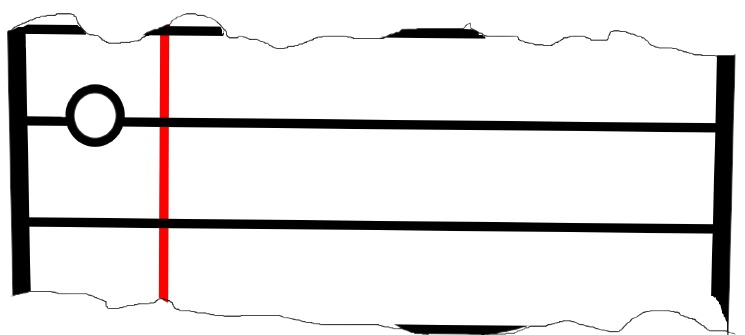
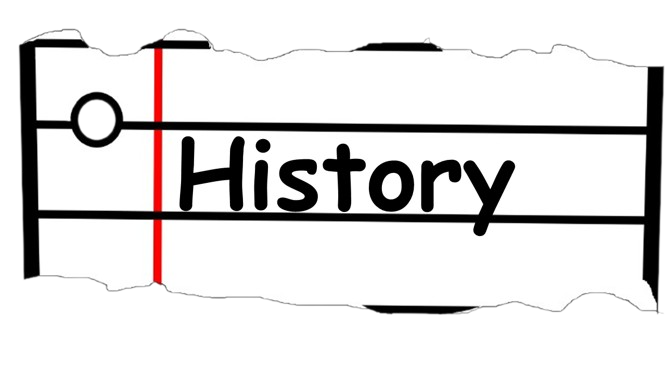
Update

diff --git a/style.css b/style.css
@@ -21,6 +21,7 @@ main {
 .crt {
     margin: 3vmin auto;
     padding: 5.5vmin;
+    padding-bottom: 10vmin;
     width: min-content;
     display: flex;
     flex-direction: column;
@@ -40,7 +41,7 @@ main {
     width: 560px;
     height: 560px;
     font-family: 'VT323';
-    color:green;
+    color: green;
     flex-direction: column;
     justify-content: space-around;
     align-items: center;
@@ -57,6 +58,11 @@ main {
     display: flex;
 }
 
+.screen.ghistory {
+    display: none;
+    color:green;
+}
+
 .screen.two button {
     font-size: 2em;
     font-weight: bolder;
@@ -70,13 +76,14 @@ button {
     cursor: pointer;
 }
 
-.screen.four img{
+.screen.four img {
     background: none;
     height: 200px;
     width: 200px;
 }
 
-.game {
+.game,
+.histories {
     display: grid;
     grid-template-columns: repeat(3, 1fr);
     grid-template-rows: repeat(3, 1fr);
@@ -89,7 +96,8 @@ button {
     max-height: 90vh;
 }
 
-.container {
+.container,
+.hcontainer {
     display: flex;
     justify-content: center;
     align-items: center;
@@ -102,38 +110,52 @@ button {
     transition: all 0.3s ease;
 }
 
-.container.one {
+.hbutton {
+    display: flex;
+    justify-content: space-around;
+    width: 100%;
+}
+
+.container.one,
+.hcontainer.one {
     border-top: none;
     border-left: none;
 }
 
-.container.two {
+.container.two,
+.hcontainer.two {
     border-top: none;
 }
 
-.container.three {
+.container.three,
+.hcontainer.three {
     border-top: none;
     border-right: none;
 }
 
-.container.four {
+.container.four,
+.hcontainer.four {
     border-left: none;
 }
 
-.container.six {
+.container.six,
+.hcontainer.six {
     border-right: none;
 }
 
-.container.seven {
+.container.seven,
+.hcontainer.seven {
     border-left: none;
     border-bottom: none;
 }
 
-.container.eight {
+.container.eight,
+.hcontainer.eight {
     border-bottom: none;
 }
 
-.container.nine {
+.container.nine,
+.hcontainer.nine {
     border-right: none;
     border-bottom: none;
 }
@@ -151,13 +173,15 @@ button {
     content: "O";
     color: green;
 }
+
 .controls {
     display: flex;
     width: 100%;
     justify-content: space-around;
     position: relative;
-    top: 15px;
+    top: 30px;
 }
+
 .controls button {
     padding: 10px 20px;
     font-size: 18px;
@@ -181,6 +205,26 @@ button {
 .controls button:hover {
     background-color: #333;
     color: #fff;
+}
+
+.crtbuttonone {
+    display: flex;
+}
+
+.crtbuttontwo {
+    display: flex;
+}
+
+#label-one {
+    position: absolute;
+    overflow-y: hidden;
+    top: -25px;
+}
+
+#label-two {
+    position: absolute;
+    overflow-y: hidden;
+    top: -25px;
 }
 
 @font-face {

diff --git a/ai.js b/ai.js
@@ -1,0 +1,73 @@
+function makeComputerMove() {
+    if (gameOver) {
+        return false;
+    }
+
+    const corners = [0, 2, 6, 8];
+    let cell = -1;
+    let myArr = [];
+
+    function getRandomCell(arr) {
+        return arr[Math.floor(Math.random() * arr.length)];
+    }
+
+    function chooseRandomCorner() {
+        return getRandomCell(corners);
+    }
+
+    function chooseRandomFreeCell() {
+        myArr = myGrid.getFreeCellIndices();
+        return getRandomCell(myArr);
+    }
+
+    if (moves >= 3) {
+        cell = myGrid.getFirstWithTwoInARow(computer) || myGrid.getFirstWithTwoInARow(player);
+
+        if (cell === false) {
+            cell = (myGrid.cells[4] === 0 && difficulty === 1) ? 4 : chooseRandomFreeCell();
+        }
+
+        // additional conditions to avoid a catch-22 situation
+        if (moves === 3 && myGrid.cells[4] === computer && player === x && difficulty === 1) {
+            const edgePairs = [
+                {playerCell: 7, enemyCells: [0, 2], availableCells: [6, 8]},
+                {playerCell: 5, enemyCells: [0, 6], availableCells: [2, 8]},
+                {playerCell: 3, enemyCells: [2, 8], availableCells: [0, 6]},
+                {playerCell: 1, enemyCells: [6, 8], availableCells: [0, 2]}
+            ];
+
+            const foundPair = edgePairs.find(pair => {
+                return myGrid.cells[pair.playerCell] === player &&
+                    pair.enemyCells.every(cell => myGrid.cells[cell] === player);
+            });
+
+            if (foundPair) {
+                cell = getRandomCell(foundPair.availableCells);
+            }
+        }
+    } else if (moves === 1 && myGrid.cells[4] === player && difficulty === 1) {
+        cell = chooseRandomCorner();
+    } else if (moves === 0 && Math.random() < 0.8) {
+        cell = chooseRandomCorner();
+    } else {
+        cell = (myGrid.cells[4] === 0 && difficulty === 1) ? 4 : chooseRandomFreeCell();
+    }
+
+    const id = `cell${cell}`;
+    document.getElementById(id).innerHTML = computerText;
+    document.getElementById(id).style.cursor = "default";
+
+    const rotation = ["rotate(180deg)", "rotate(90deg)", ""];
+    document.getElementById(id).style.transform = getRandomCell(rotation);
+
+    myGrid.cells[cell] = computer;
+    moves += 1;
+
+    if (moves >= 5) {
+        winner = checkWin();
+    }
+
+    if (winner === 0 && !gameOver) {
+        whoseTurn = player;
+    }
+}

diff --git a/index.html b/index.html
@@ -37,14 +37,37 @@
                 </button>
                 <p>Play again</p>
             </div>
+            <div class="screen ghistory">
+                <div class="histories">
+                    <div class="hcontainer one"></div>
+                    <div class="hcontainer two"></div>
+                    <div class="hcontainer three"></div>
+                    <div class="hcontainer four"></div>
+                    <div class="hcontainer five"></div>
+                    <div class="hcontainer six"></div>
+                    <div class="hcontainer seven"></div>
+                    <div class="hcontainer eight"></div>
+                    <div class="hcontainer nine"></div>
+                </div>
+                <div class="hbutton">
+                    <button class="prev">Prev</button>
+                    <p class="ghistory">You have no game history</p>
+                    <button class="next">Next</button>
+                </div>
+            </div>
             <div class="controls">
                 <div class="crtbuttonone">
-                    <button class="history"></button>
-                    <img src="./media/stickyone.png" alt="labelone" height="20px">
+                    <button class="history" onclick="showHistoryScreen()"></button>
+                    <div>
+                        <img src="./media/stickyone.png" id="label-one" alt="labelone" height="75px" z-index="1"
+                            overflow="hidden">
+                    </div>
                 </div>
                 <div class="crtbuttontwo">
-                    <button class="play"></button>
-                    <img src="./media/stickytwo.png" alt="labeltwo" height="20px">
+                    <button class="play" onclick="showScreenOne()"></button>
+                    <div>
+                        <img src="./media/stickytwo.png" id="label-two" alt="labeltwo" height="75px" overflow="hidden">
+                    </div>
                 </div>
                 <span class="power-slider"></span>
             </div>

diff --git a/script.js b/script.js
@@ -167,10 +167,44 @@ playAgainButton.addEventListener("click", function () {
     containers.forEach(function (container) {
         container.classList.remove("x", "o");
     });
-    let intro = document.querySelector(".introtxt");
-    intro.textContent = "Press any key to play";
     let screenTwo = document.querySelector(".screen.two");
     screenTwo.style.display = "flex";
 });
 
+function showHistoryScreen() {
+    let historyScreen = document.querySelector(".screen.ghistory");
+    let screens = document.querySelectorAll(".screen");
+
+    screens.forEach(function (screen) {
+        if (screen !== historyScreen) {
+            screen.style.display = "none";
+        }
+    });
+    historyScreen.style.display = "flex";
+}
+
+function showScreenOne() {
+    let screenOne = document.querySelector(".screen.one");
+    let screens = document.querySelectorAll(".screen");
+
+    screens.forEach(function (screen) {
+        if (screen !== screenOne) {
+            screen.style.display = "none";
+        }
+    });
+    screenOne.style.display = "flex";
+    board = [
+        ["", "", ""],
+        ["", "", ""],
+        ["", "", ""]
+    ];
+    containers.forEach(function (container) {
+        container.classList.remove("x", "o");
+    });
+    
+}
+
+
 setInterval(introText, 500);
+
+let gameHistory = [];
